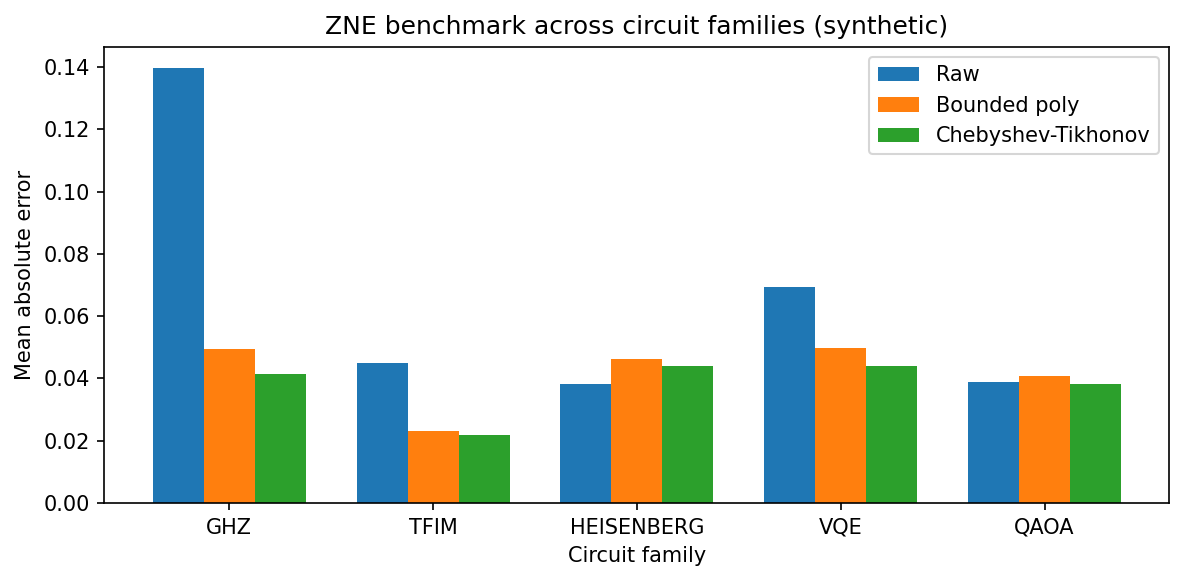
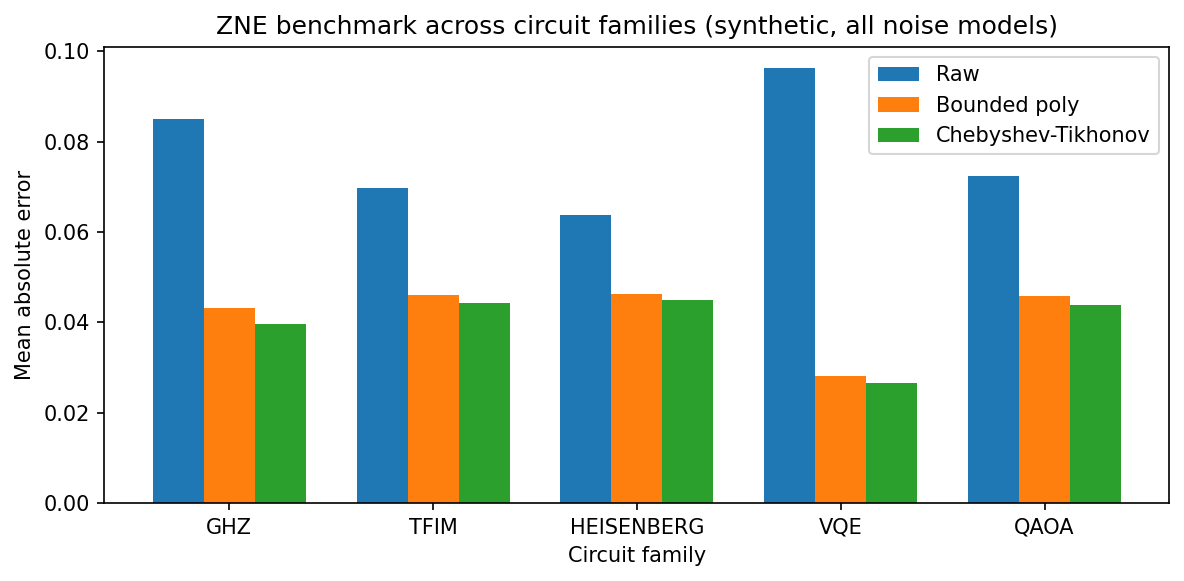
Integrate noise models into circuit-family benchmarks

diff --git a/experiments/12_circuit_family_benchmarks.py b/experiments/12_circuit_family_benchmarks.py
@@ -1,7 +1,7 @@
-"""Experiment 12: Circuit-family benchmark suite.
+"""Experiment 12: Circuit-family benchmark suite with noise model grid.
 
-Runs ZNE benchmarks across multiple circuit families and noise models.
-All results are synthetic — no hardware claims.
+Runs ZNE benchmarks across circuit families AND noise models.
+All results are synthetic — no hardware or circuit simulation claims.
 """
 
 import numpy as np
@@ -10,49 +10,60 @@ import matplotlib.pyplot as plt
 from qem_inverse_theory.benchmarks.suite import run_benchmark_suite
 
 families = ["ghz", "tfim", "heisenberg", "vqe", "qaoa"]
-shots_values = [1000, 10000]
+noise_models = ["depolarizing", "amplitude_damping", "coherent_overrotation", "pauli_lindblad", "time_correlated", "non_markovian"]
+shots = 5000
 seeds = [42, 123, 456]
 
 print("=" * 70)
-print("Experiment 12: Circuit-Family Benchmark Suite")
+print("Experiment 12: Circuit-Family × Noise-Model Benchmark")
 print("=" * 70)
-print("\nAll results are synthetic circuit-family response models.")
-print("No quantum hardware or circuit simulation is involved.\n")
+print("\nAll results are synthetic response models. No hardware claims.\n")
 
 results = []
 for family in families:
-    for shots in shots_values:
-        errors_raw, errors_bounded, errors_cheb = [], [], []
+    for nm in noise_models:
+        errors = []
         for seed in seeds:
-            r = run_benchmark_suite(family, n_qubits=4, depth=4, shots_total=shots, seed=seed)
-            errors_raw.append(r["raw_error"])
-            errors_bounded.append(r["bounded_error"])
-            errors_cheb.append(r["chebyshev_error"])
+            r = run_benchmark_suite(family, noise_model=nm, shots_total=shots, seed=seed)
+            errors.append(r["chebyshev_error"])
             results.append(r)
+        avg = np.mean(errors)
+        print(f"  {family:12s} + {nm:22s}: cheb_err={avg:.4f}")
 
-        avg_raw = np.mean(errors_raw)
-        avg_bnd = np.mean(errors_bounded)
-        avg_chb = np.mean(errors_cheb)
-        print(f"  {family:12s} shots={shots:5d}: "
-              f"raw={avg_raw:.4f}  bounded={avg_bnd:.4f}  chebyshev={avg_chb:.4f}")
-
-# Summary figure
+# Summary figure: family × noise heatmap
 os.makedirs("figures", exist_ok=True)
+grid = np.zeros((len(families), len(noise_models)))
+for i, f in enumerate(families):
+    for j, nm in enumerate(noise_models):
+        subset = [r["chebyshev_error"] for r in results if r["family"] == f and r["noise_model"] == nm]
+        grid[i, j] = np.mean(subset)
+
+fig, ax = plt.subplots(figsize=(9, 4))
+im = ax.imshow(grid, aspect="auto", cmap="YlOrRd")
+ax.set_xticks(range(len(noise_models)))
+ax.set_xticklabels([nm[:8] for nm in noise_models], rotation=45, ha="right")
+ax.set_yticks(range(len(families)))
+ax.set_yticklabels([f.upper() for f in families])
+ax.set_title("Mean |error| by family × noise model (Chebyshev-Tikhonov, synthetic)")
+fig.colorbar(im, ax=ax, label="Mean absolute error")
+plt.tight_layout()
+plt.savefig("figures/circuit_family_noise_benchmark_summary.pdf", bbox_inches="tight")
+plt.savefig("figures/circuit_family_noise_benchmark_summary.png", dpi=150, bbox_inches="tight")
+plt.close()
+
+# Also save the simpler family-only figure
 fig, ax = plt.subplots(figsize=(8, 4))
 x = np.arange(len(families))
 width = 0.25
-
-# Average over shots and seeds
 raw_avgs = [np.mean([r["raw_error"] for r in results if r["family"] == f]) for f in families]
 bnd_avgs = [np.mean([r["bounded_error"] for r in results if r["family"] == f]) for f in families]
 chb_avgs = [np.mean([r["chebyshev_error"] for r in results if r["family"] == f]) for f in families]
-
 ax.bar(x - width, raw_avgs, width, label="Raw")
 ax.bar(x, bnd_avgs, width, label="Bounded poly")
 ax.bar(x + width, chb_avgs, width, label="Chebyshev-Tikhonov")
 ax.set_xlabel("Circuit family")
 ax.set_ylabel("Mean absolute error")
-ax.set_title("ZNE benchmark across circuit families (synthetic)")
+ax.set_title("ZNE benchmark across circuit families (synthetic, all noise models)")
 ax.set_xticks(x)
 ax.set_xticklabels([f.upper() for f in families])
 ax.legend()
@@ -63,35 +74,27 @@ plt.close()
 
 # Save results
 os.makedirs("results", exist_ok=True)
-lines = ["# Circuit-Family Benchmark Results", "",
+lines = ["# Circuit-Family × Noise-Model Benchmark Results", "",
          "## Setup", "",
-         "- Families: GHZ, TFIM, Heisenberg, VQE, QAOA",
-         "- n_qubits: 4, depth: 4, noise_strength: 0.04",
-         f"- Shots: {shots_values}",
-         f"- Seeds: {seeds}",
+         f"- Families: {', '.join(f.upper() for f in families)}",
+         f"- Noise models: {', '.join(noise_models)}",
+         f"- Shots: {shots}, Seeds: {seeds}",
          "- Methods: raw, bounded polynomial deg-2, Chebyshev-Tikhonov deg-2",
-         "- **All results are synthetic response models, not circuit simulations.**", "",
-         "## Results (mean absolute error)", "",
-         "| Family | Raw | Bounded | Chebyshev |",
-         "|--------|-----|---------|-----------|"]
-for f in families:
-    r_raw = np.mean([r["raw_error"] for r in results if r["family"] == f])
-    r_bnd = np.mean([r["bounded_error"] for r in results if r["family"] == f])
-    r_chb = np.mean([r["chebyshev_error"] for r in results if r["family"] == f])
-    lines.append(f"| {f.upper()} | {r_raw:.4f} | {r_bnd:.4f} | {r_chb:.4f} |")
-
+         "- **All results are synthetic response models.**", "",
+         "## Results (Chebyshev-Tikhonov mean |error|)", "",
+         "| Family | " + " | ".join(nm[:8] for nm in noise_models) + " |",
+         "|--------" + "|--------" * len(noise_models) + "|"]
+for i, f in enumerate(families):
+    row = " | ".join(f"{grid[i,j]:.4f}" for j in range(len(noise_models)))
+    lines.append(f"| {f.upper()} | {row} |")
 lines += ["", "## Interpretation", "",
-          "These synthetic benchmarks illustrate how different circuit-family response",
-          "profiles interact with ZNE estimators. Results vary by family because each",
-          "has different decay characteristics (fast/slow, oscillatory, saturating).",
-          "",
-          "**Caveats:**",
-          "- These are synthetic response models, not actual circuit simulations.",
-          "- Real circuits may behave differently under noise amplification.",
-          "- No hardware validation is claimed.",
-          "- Rankings may change with different noise models or shot budgets."]
+          "Different noise models produce different error profiles for the same circuit family.",
+          "Non-Markovian and coherent noise tend to be harder for polynomial extrapolation.",
+          "This does not prove any method is universally best across all noise/family combinations.",
+          "Results are synthetic and do not generalize to hardware."]
 
 with open("results/circuit_family_benchmarks.md", "w") as f:
     f.write("\n".join(lines) + "\n")
-print("\nSaved: results/circuit_family_benchmarks.md")
-print("Saved: figures/circuit_family_benchmark_summary.pdf")
+print(f"\nTotal benchmark combinations: {len(families)} × {len(noise_models)} × {len(seeds)} = {len(results)}")
+print("Saved: results/circuit_family_benchmarks.md")
+print("Saved: figures/circuit_family_noise_benchmark_summary.pdf")

diff --git a/src/qem_inverse_theory/benchmarks/suite.py b/src/qem_inverse_theory/benchmarks/suite.py
@@ -4,10 +4,18 @@ import numpy as np
 from ..types import ZNEData
 from ..estimators.constrained import fit_bounded_polynomial_zne
 from ..estimators.chebyshev import fit_chebyshev_tikhonov_zne
-from .circuit_families import sample_circuit_family
+from .circuit_families import ghz_sanity_response, tfim_trotter_response, heisenberg_trotter_response, hardware_efficient_vqe_response, qaoa_response
 from .noise_models import apply_noise_model
 from .shot_noise import add_gaussian_shot_noise
 from .metrics import absolute_error
+
+_FAMILY_F0 = {
+    "ghz": lambda nq, d, ns: ghz_sanity_response(nq, ns)[1],
+    "tfim": lambda nq, d, ns: tfim_trotter_response(nq, d, ns)[1],
+    "heisenberg": lambda nq, d, ns: heisenberg_trotter_response(nq, d, ns)[1],
+    "vqe": lambda nq, d, ns: hardware_efficient_vqe_response(nq, d, ns)[1],
+    "qaoa": lambda nq, d, ns: qaoa_response(nq, d, ns)[1],
+}
 
 
 def run_benchmark_suite(
@@ -20,20 +28,33 @@ def run_benchmark_suite(
 ) -> dict:
     """Run a single benchmark instance and return metrics.
 
-    Uses the circuit-family response generator with the specified noise model
-    overlay. Returns raw and constrained estimates with error metrics.
+    The family determines f(0) (the noiseless reference value).
+    The noise_model determines the noisy response f(λ) for λ > 0.
+    Shot noise is added on top.
     """
     scales = np.array([1.0, 1.5, 2.0, 3.0, 4.0])
     rng = np.random.default_rng(seed)
 
-    # Get circuit-family response
-    data, f0 = sample_circuit_family(
-        family, n_qubits=n_qubits, depth=depth,
-        noise_strength=0.04, scales=scales, shots=shots_total, seed=seed
-    )
+    if family not in _FAMILY_F0:
+        raise ValueError(f"Unknown family: {family}. Available: {list(_FAMILY_F0.keys())}")
+
+    # Get true f(0) from circuit family
+    noise_strength = 0.04
+    f0 = _FAMILY_F0[family](n_qubits, depth, noise_strength)
+
+    # Generate noisy response using the specified noise model
+    clean = apply_noise_model(f0, scales, noise_model, n_qubits=n_qubits)
+
+    # Add shot noise
+    noisy = add_gaussian_shot_noise(clean, shots=shots_total, rng=rng)
+    variances = np.maximum(1.0 - noisy**2, 0.01) / shots_total
+
+    data = ZNEData(scales=scales, estimates=noisy, variances=variances,
+                   metadata={"family": family, "noise_model": noise_model,
+                             "n_qubits": n_qubits, "depth": depth, "seed": seed})
 
     # Raw estimate (first scale factor)
-    raw_estimate = data.estimates[0]
+    raw_estimate = float(noisy[0])
 
     # Constrained estimates
     bounded_result = fit_bounded_polynomial_zne(data, degree=2, bounds=(-1.0, 1.0))
@@ -47,10 +68,10 @@ def run_benchmark_suite(
         "shots_total": shots_total,
         "seed": seed,
         "true_f0": f0,
-        "raw_estimate": float(raw_estimate),
+        "raw_estimate": raw_estimate,
         "bounded_estimate": bounded_result.estimate,
         "chebyshev_estimate": chebyshev_result.estimate,
-        "raw_error": absolute_error(float(raw_estimate), f0),
+        "raw_error": absolute_error(raw_estimate, f0),
         "bounded_error": absolute_error(bounded_result.estimate, f0),
         "chebyshev_error": absolute_error(chebyshev_result.estimate, f0),
         "physical_valid_raw": -1.0 <= raw_estimate <= 1.0,

diff --git a/tests/test_circuit_family_benchmarks.py b/tests/test_circuit_family_benchmarks.py
@@ -99,3 +99,28 @@ def test_benchmark_suite_fast():
     t0 = time.time()
     run_benchmark_suite("qaoa", shots_total=1000, seed=42)
     assert time.time() - t0 < 2.0
+
+
+# --- Noise model integration tests ---
+
+def test_noise_model_changes_output():
+    """Same family + seed but different noise_model must produce different errors."""
+    r1 = run_benchmark_suite("tfim", noise_model="depolarizing", seed=42)
+    r2 = run_benchmark_suite("tfim", noise_model="coherent_overrotation", seed=42)
+    assert r1["chebyshev_error"] != r2["chebyshev_error"], "Different noise models should give different results"
+
+
+def test_noise_model_deterministic():
+    """Same family + noise_model + seed must give identical results."""
+    r1 = run_benchmark_suite("vqe", noise_model="pauli_lindblad", seed=99)
+    r2 = run_benchmark_suite("vqe", noise_model="pauli_lindblad", seed=99)
+    assert r1["chebyshev_error"] == r2["chebyshev_error"]
+
+
+def test_all_noise_models_run():
+    """All 6 noise models should run without error for all families."""
+    for family in ["ghz", "tfim", "vqe"]:
+        for nm in ["depolarizing", "amplitude_damping", "coherent_overrotation",
+                   "pauli_lindblad", "time_correlated", "non_markovian"]:
+            r = run_benchmark_suite(family, noise_model=nm, shots_total=100, seed=0)
+            assert np.isfinite(r["chebyshev_error"]), f"Failed: {family}/{nm}"